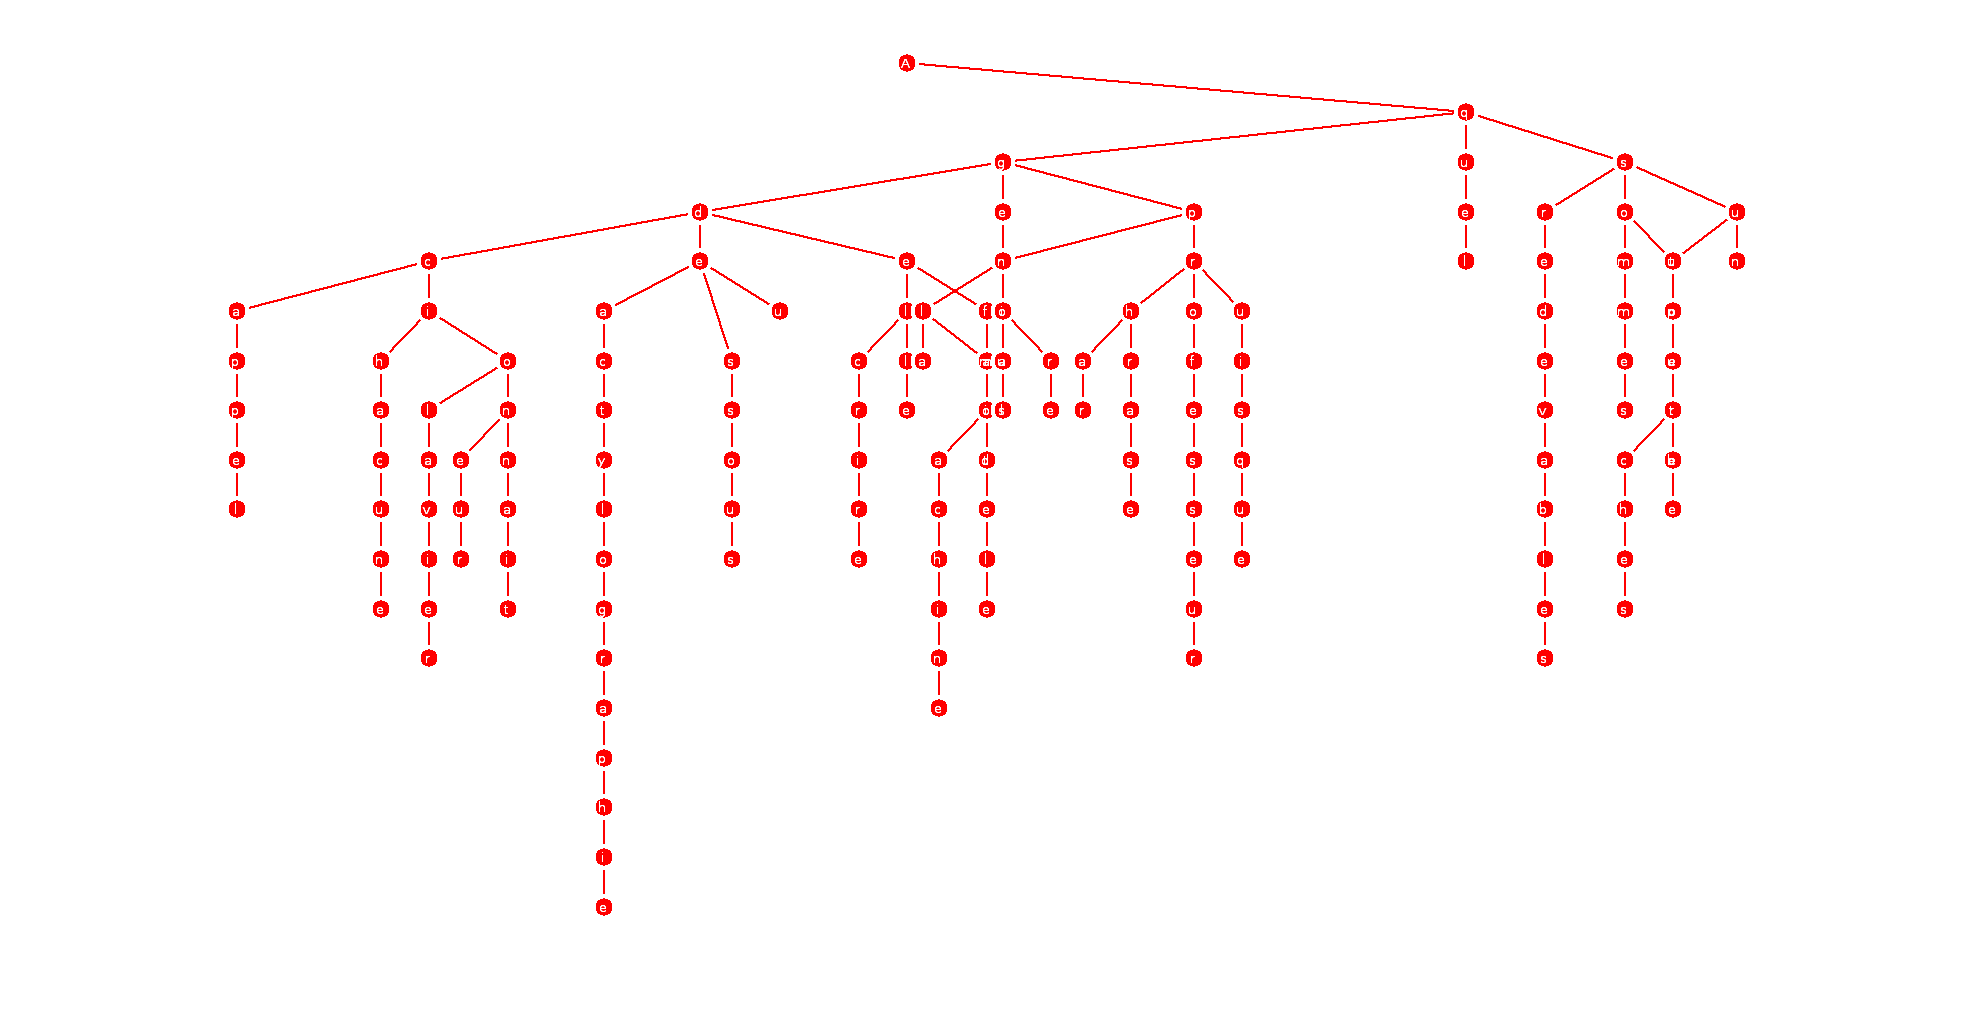
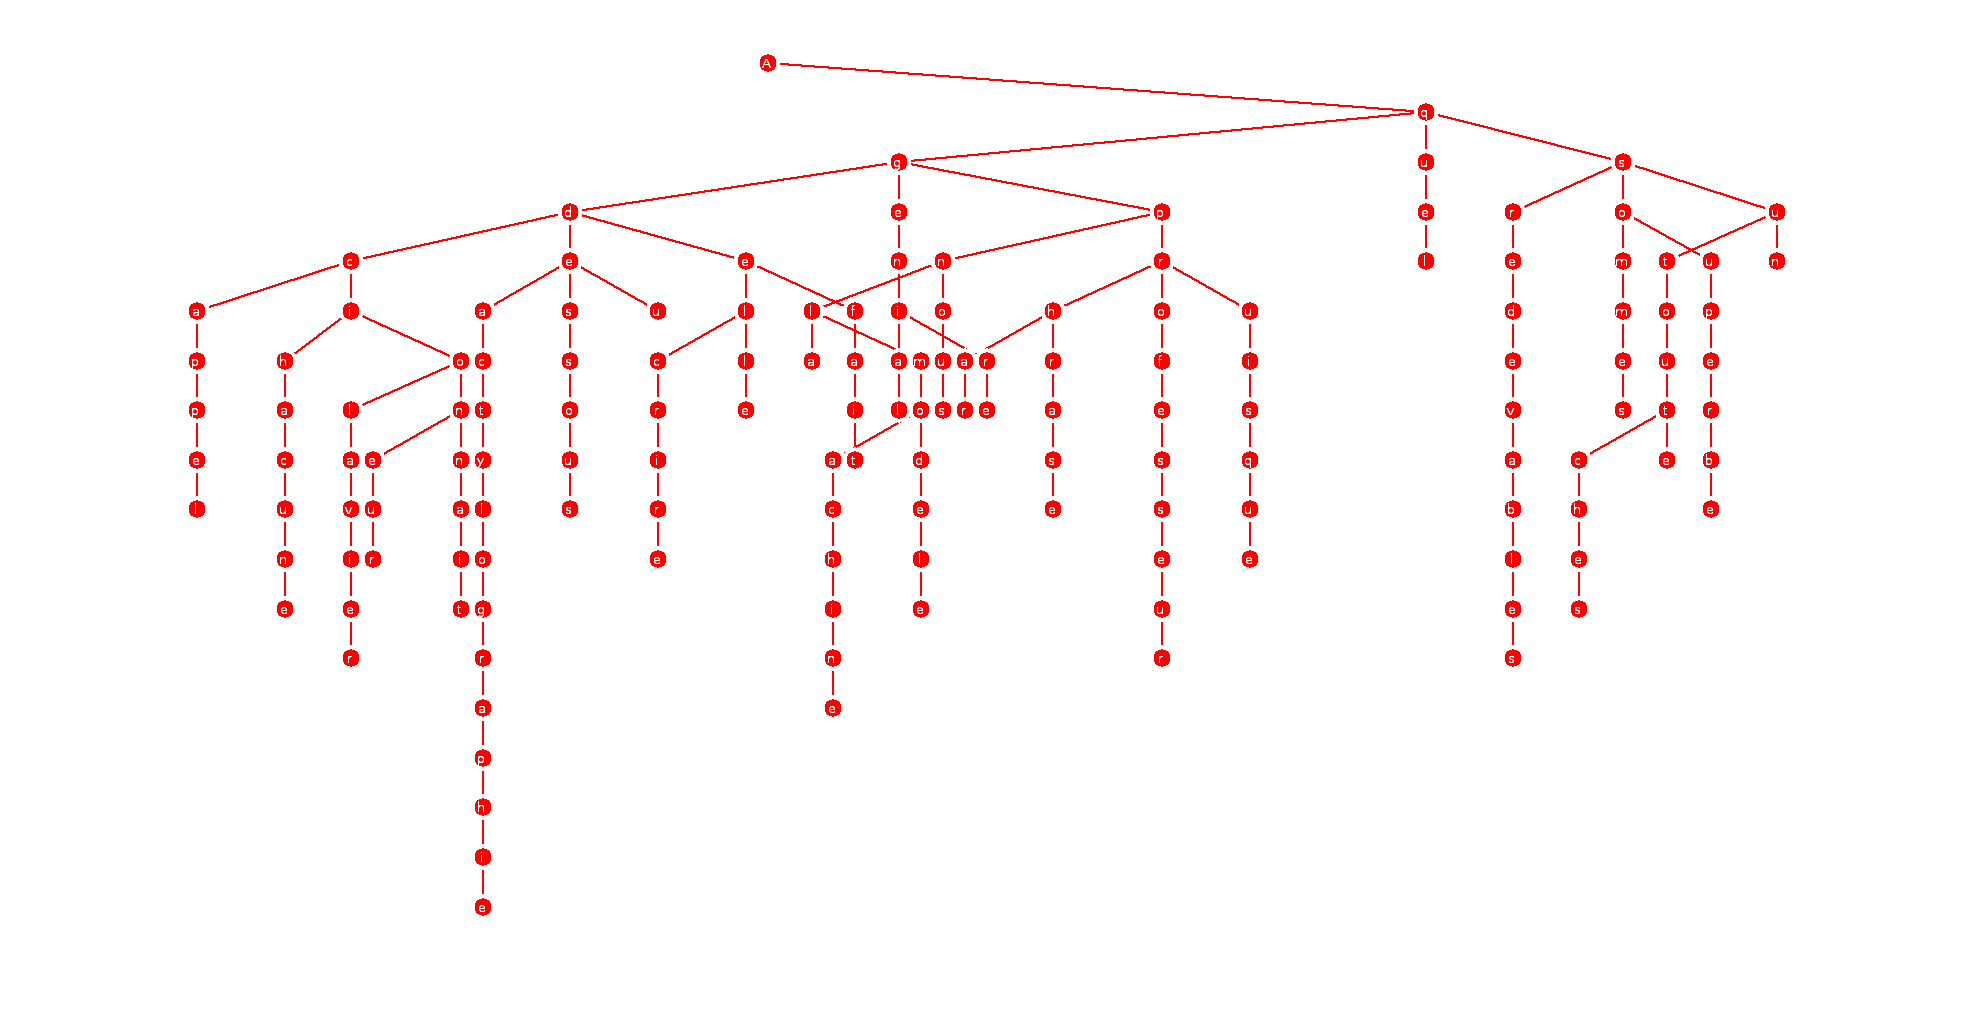
Fixed adding \0 to Tries

diff --git a/src/Hybrid_Tries/HTrie.c b/src/Hybrid_Tries/HTrie.c
@@ -17,7 +17,7 @@ HTrie * add_HTrie(char * word, HTrie * T){
 		T->sup = add_HTrie(word, T->sup);
 	}
 	else{
-		if(*word == '\0'){
+		if(strlen(word) == 1){
 			T->val = NON_EMPTY;		
 		}
 		else{
@@ -256,7 +256,6 @@ void make_plot_file_HTrie(HTrie * T){
 	inside_plot_file(T, 0, 0);
 
 }
-
 int width(HTrie * T){
 
 
@@ -303,7 +302,7 @@ void inside_plot_file(HTrie * T, double x, double y){
 		printf("\n");
 
 */
-
+	double i_x = x;
 	if(T == NULL)
 		return;
 	double w_inf = width(T->inf);
@@ -312,14 +311,15 @@ void inside_plot_file(HTrie * T, double x, double y){
 	double w = w_inf + w_eq + w_sup;
 
 	printf("%c %lf %lf\n", T->key, x, y);
-	inside_plot_file(T->inf, x - (w_eq + w_inf / 2) * D_X, y + D_Y);
+	inside_plot_file(T->inf, x - (w_eq / 2 + w_inf / 2 + 1) * D_X, y + D_Y);
 
 	printf("%c %lf %lf\n", T->key, x, y);
+	if(i_x != x) fprintf(stderr,"Something weird\n");
 	inside_plot_file(T->eq, x, y + D_Y);
 	
 	printf("%c %lf %lf\n", T->key, x, y);
 
-	inside_plot_file(T->sup, x + (w_eq + w_sup / 2) * D_X, y + D_Y);
+	inside_plot_file(T->sup, x + (w_eq / 2 + w_sup / 2+ 1) * D_X, y + D_Y);
 
 	printf("\n");
 
